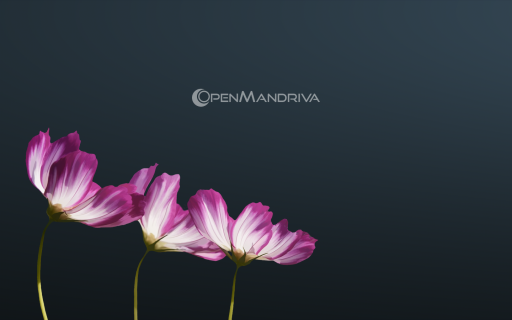
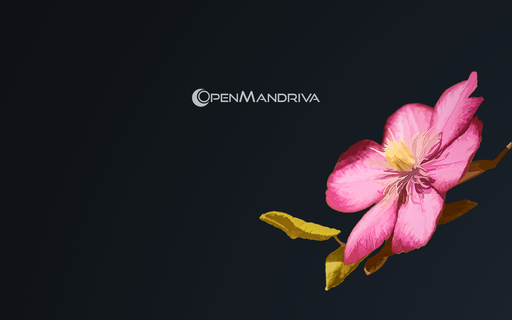
Copy artwork from oldrolling branch

diff --git a/README.md b/README.md
@@ -1,4 +1,4 @@
-*Master branch*
+# ROME - rolling branch
 
 This repository contains basic OpenMandriva Lx setup:
 - versioning
@@ -34,4 +34,3 @@ Directory layout:
 - common-licenses
 
     a place for files related to licenses
-    
